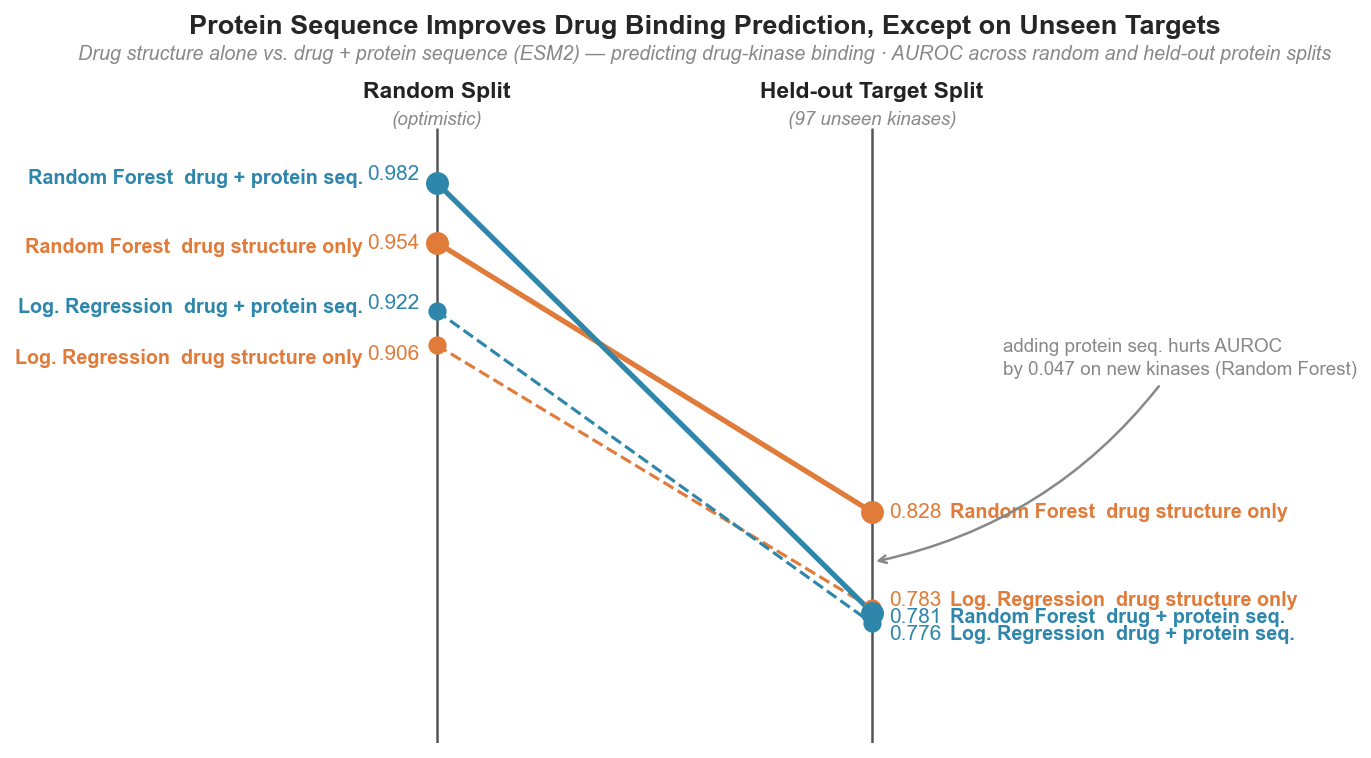
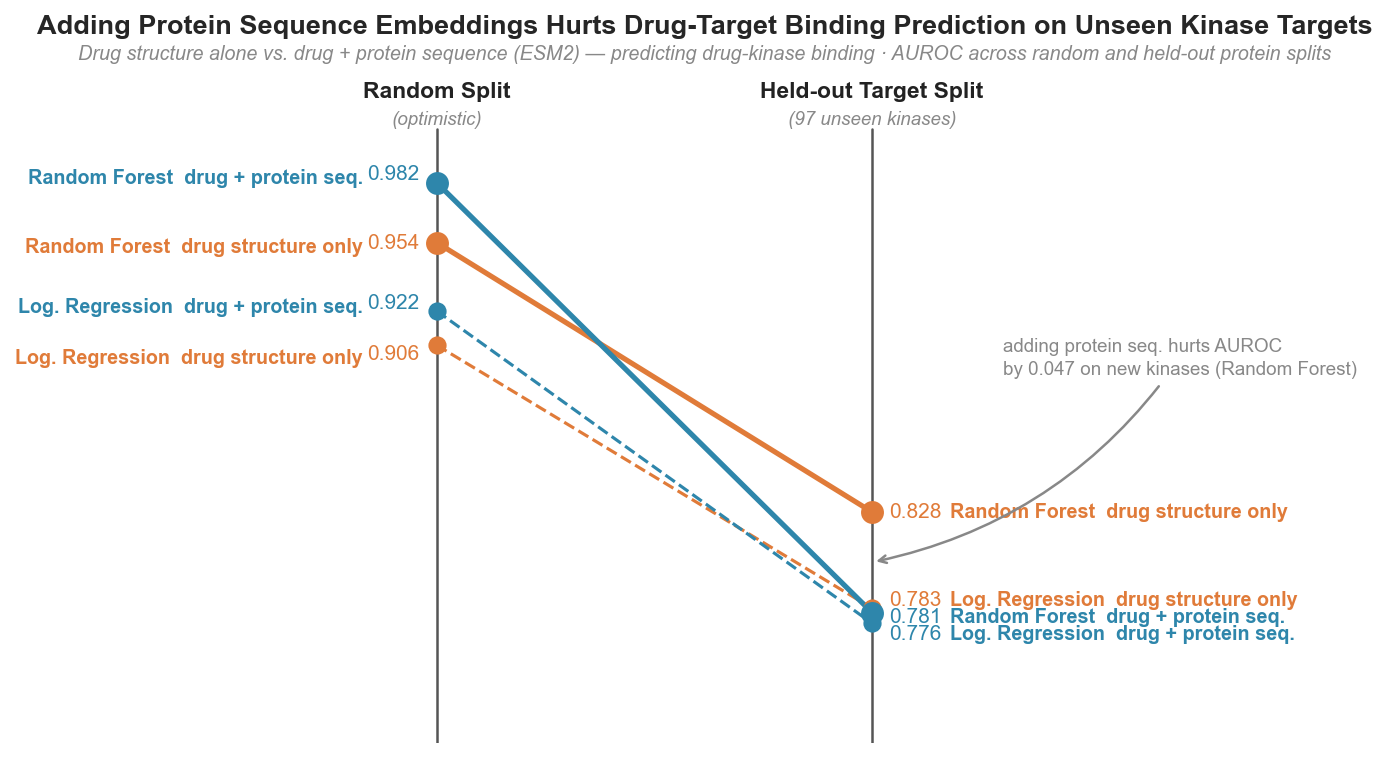
update hero_figure title and interpretation wording

diff --git a/make_hero.py b/make_hero.py
@@ -108,7 +108,7 @@ for spine in ax.spines.values():
 ax.grid(False)
 
 ax.set_title(
-    'Protein Sequence Improves Drug Binding Prediction, Except on Unseen Targets',
+    'Adding Protein Sequence Embeddings Hurts Drug-Target Binding Prediction on Unseen Kinase Targets',
     fontsize=13, fontweight='bold', pad=8, loc='center'
 )
 ax.text(0.5, 1.008,

diff --git a/README.md b/README.md
@@ -8,7 +8,7 @@ Can a machine learning model predict whether a small molecule binds a protein ta
 
 Project 1 (`antibody-sequence-landscape`) asked whether ESM2 encodes species-level biological structure in VH antibody sequences. The answer was yes. This project asks the functional follow-up: does ESM2 mean-pool encode binding specificity well enough to contribute to drug-target interaction prediction on kinases?
 
-Mean-pool is used here deliberately, not because it outperformed CLS in project 1 (CLS reached silhouette 0.134 on inter-species separation; mean-pool degraded it), but because the question is whether it carries functional signal at all when paired with a ~19x larger model (8M → 150M parameters). That advantage was specific to inter-species separation of short VH sequences (~120 residues). For functional prediction over 500+ residue kinase sequences, per-residue averaging captures more domain-level structure than a single task-agnostic token.
+Mean-pool is used here deliberately, not because it outperformed CLS in project 1 (CLS reached silhouette 0.134 on inter-species separation; mean-pool degraded it), but because the question is whether it carries functional signal at all when paired with a ~19x larger model (8M → 150M parameters). That advantage was specific to inter-species separation of short VH sequences (~120 residues). For functional prediction over 500+ residue kinase sequences, per-residue averaging captures more domain-level structure than the CLS token alone.
 
 Project 3 asks whether fine-tuning the protein encoder end-to-end on the binding task can recover the generalization to unseen kinase targets that frozen pretrained representations cannot.
 
@@ -112,7 +112,7 @@ RF models were fit on Colab Pro due to local RAM constraints (estimated 14.9 GB 
 
 ## Interpretation
 
-The honest numbers are 0.781 (RF, 95% CI [0.777, 0.785]) and 0.776 (LR, [0.772, 0.780]) on the held-out target split. On 97 kinase proteins withheld entirely from training, both models drop sharply from their random-split performance; RF gains only +0.006 over LR on this split, despite gaining +0.060 on the random split. Model capacity is not the bottleneck. What fails to transfer is the protein representation itself; the co-occurrence pattern the random split rewards does not generalize to unseen kinases.
+The honest numbers are 0.781 (RF, 95% CI [0.777, 0.785]) and 0.776 (LR, [0.772, 0.780]) on the held-out target split. On 97 kinase proteins withheld entirely from training, both models drop sharply from their random-split performance; RF gains only +0.006 over LR on this split, despite gaining +0.060 on the random split. Model capacity is not the bottleneck. What fails to transfer is the protein representation itself; ESM2 encodes kinase structure but not binding specificity that transfers to unseen targets.
 
 The scaffold split drop is different: LR fp_esm loses 0.062 AUROC points from random to scaffold (0.922 to 0.860 [0.856, 0.863]); RF fp_esm loses only 0.015 (0.982 to 0.967 [0.965, 0.968]). Fingerprint bit correlations encode binding information a linear model cannot exploit, and those patterns transfer to novel chemical scaffolds. The drug-side generalization test is inherently easier because ATP-competitive kinase inhibitors share pharmacophoric requirements regardless of scaffold; structural novelty on the drug side is less challenging than target novelty on the protein side.
 